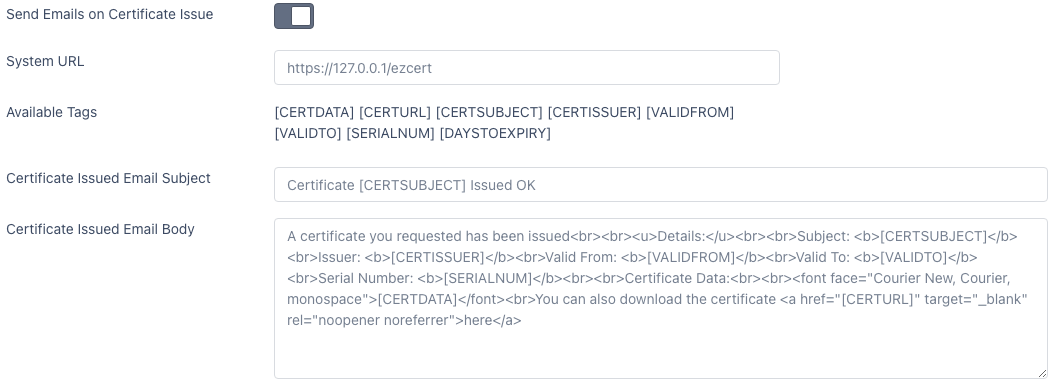
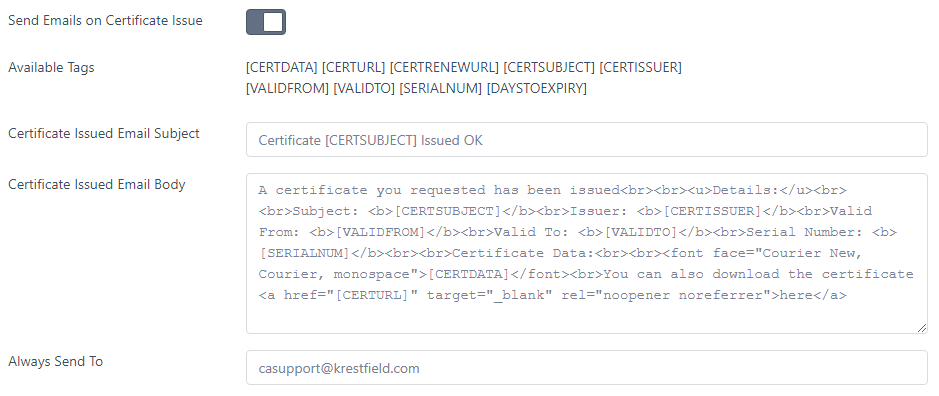
Updated emails

diff --git a/certdog/email_settings.md b/certdog/email_settings.md
@@ -23,7 +23,7 @@ But before any emails can be sent you must configure your email server settings.
 
 > If this is the first time you are testing emails - ensure you have created a new user or have updated the default admin user's email address. Otherwise emails will be sent to the default bogus email address 
 
-
+<br>
 
 ### Server Settings
 
@@ -43,7 +43,7 @@ Populate the following settings
   * Most provided services will require this. When checked you must populate the username and password fields
 * Username
   * The username provided by the SMTP service
-  * This may be a common ID e.g. apikey
+  * This may be a common ID e.g. apikey or a username
 * Password
   * The password provided by the SMTP service
   * This may be an API key provided as a long string of text
@@ -54,15 +54,39 @@ Populate the following settings
   * The email address you want emails to appear to have been sent from
   * You may have to register this with your SMTP provider
 
+<br>
 
+**System URL**
+
+In order for the [CERTURL] tag to be correct, you must enter a value for **System URL**. This must be the server name and location a user would use to access the system  
+
+The server name will be the DNS name and the location will usually be **/certdog** but this can be changed depending on how you host the system  
+
+As an example, on initial setup you may access the login page here:  
+
+https://127.0.0.1/certdog/ui/#/login
+
+In this case you would set the *System URL* to be:  
+
+https://127.0.0.1/certdog
+
+Later, when you configure your DNS entries, you may access the server at:  
+
+https://certdog.corpdomain.com/certdog/ui/#/login
+
+So now the *System URL* would be:
+
+https://certdog.corpdomain.com/certdog
+
+<br>
 
 ### Send Emails on Certificate Issue
 
 Check this box if you want an email to be sent whenever a certificate is issued  
 
+<img src=".\images\send_emails_on_issue.png" alt="Send On Issue" style="zoom:80%;" />
 
 
-![image-20210122150749792](.\images\send_emails_on_issue.png)
 
 You can set the email subject and body templates of the emails that will be sent. You can use standard html tags in the body as well as the following additional tags:
 
@@ -70,6 +94,9 @@ You can set the email subject and body templates of the emails that will be sent
   * This will insert the issued certificate's data (PEM formatted)
 * [CERTURL]
   * This will resolve to the URL that when entered into a browser will take the user to the details page for that certificate
+* [CERTRENEWURL]
+  * This is the URL that can be accessed to renew this certificate
+
 * [CERTSUBJECT]
   * The certificate subject e.g. CN=mydomain.com,O=krestfield
 * [CERTISSUER]
@@ -83,48 +110,92 @@ You can set the email subject and body templates of the emails that will be sent
 * [DAYSTOEXPIRY]
   * The number of days until the certificate expires
 
+<br>
 
+**Always Send To**
 
-**System URL**
+If you wish to send an email to an address (or addresses) in addition to the one being sent to the requester, enter the email address(es) here. For multiple email addresses enter as a comma separated list e.g.
 
-In order for the [CERTURL] tag to be correct, you must enter a value for **System URL**. This must be the server name and location a user would use to access the system  
+```
+casupport@krestfield.com, ca@krestfield.com
+```
 
-The server name will be the DNS name and the location will usually be **/certdog** but this can be changed depending on how you host the system  
+For emails in this field, every time an email is sent to a user the same email will also sent to these email addresses
 
-As an example, on initial setup you may access the login page here:  
+This option can be used as a notification - when certificates or issued, or as an additional audit record (in addition to the logs)  
 
-https://127.0.0.1/certdog/ui/#/login
+Leave this field blank to not send additional emails
 
-In this case you would set the System URL to be:  
+<br>
 
-https://127.0.0.1/certdog
-
-Later, when you configure your DNS entries, you may access the server at:  
-
-https://certdog.corpdomain.com/certdog/ui/#/login
-
-So now the System URL would be:
-
-https://certdog.corpdomain.com/certdog
-
-
+<br>
 
 ### Send Emails on Certificate Expiry
 
 If this option is checked users will get email reminders when certificates are nearing expiry  
 
+<img src=".\images\send_emails_on_expiring1.png" alt="Expiry Reminders" style="zoom:80%;" />
+
 Configure the email subject and body templates as before, utilising the available tags  
 
-Then set the values for **Send Notification on Days**  
+<br>
+
+**Send Notification on Days**  
 
 This value is simply a comma separated list which indicates how many days before expiry a reminder will be sent e.g. 5,10,15 indicates that reminders will be sent when certificates are expiring in 5, 10, or 15 days
 
 See [Certificate Expiry Reminders](certificate_expiry_reminders.html) for more details
 
+  <br>
 
+**Always Send To**
 
+As above, for every reminder email sent, the same email will be sent to these additional addresses. This can be useful for another team to also obtain reminders for all certificates or as an audit to validate that emails are being sent
 
+  
 
 Once all settings have been configured click **Update**  
 
 When emails are sent, logs will be added. It is a good idea to set emails to be sent on issue and then issue a test certificate to confirm all of the SMTP server settings etc. are correct. If there are any issues, check the logs and then verify your settings
+<br>
+
+### Suppression
+
+Emails can be suppressed for individual certificates as well as teams  
+
+Expiry monitoring can be disabled for a specific certificate. This means no expiry reminder emails will be sent for that certificate  
+
+A Team can suppress *cert issued* and *cert expiring* emails. If a certificate is within a team that has one of both of these items checked, emails will not be sent for that certificate. See the [teams documentation](teams.html) for more information
+
+<br>
+
+### Additional Settings
+
+It is possible to setup multiple Certdog API services all using the same database. If you have more than one server configured you may set just one of these servers to manage the email sending
+
+Sending of emails can be switched off for specific servers by editing the ``application.properties`` file located at ``[Certdog Install]\config`` e.g.
+
+```shell
+c:\certdog\config\application.properties
+```
+
+Set the following setting to false as shown below:
+
+```properties
+# If set to true, this server will send emails, otherwise no emails will be sent from this server
+# Set this to false if you have multiple servers running as you will only want one to send emails
+email.thisserver.send=false
+```
+
+Once restarted, the server will no longer send any emails
+
+<br>
+
+If the sending of an email fails (due to incorrect SMTP server configuration or connectivity issues etc.), an attempt to re-send the same email will be made at a a later time. This time is set to 6 hours (360 minutes) by default. If you wish to change this period, edit the ``application.properties`` file and update the following
+
+```properties
+# If an email fails to send, this is the time the server will wait before retrying
+email.resenddelay.minutes=360
+```
+
+Note that whenever the server settings are updated, an attempt will be made to re-send failed emails. E.g. if the incorrect SMTP host, username or password were entered, when these are corrected emails will be sent
